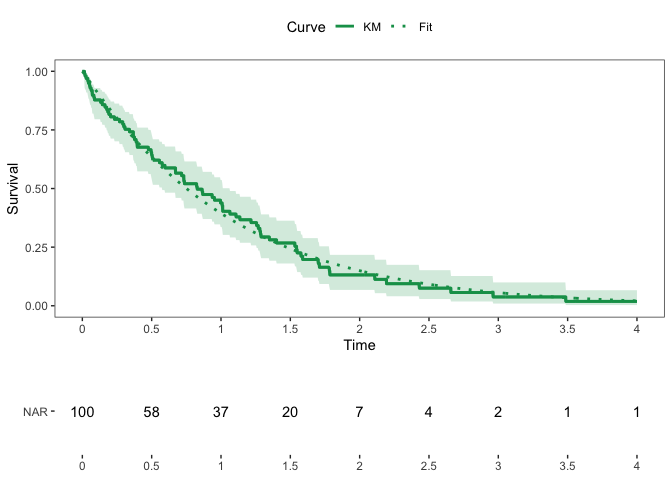
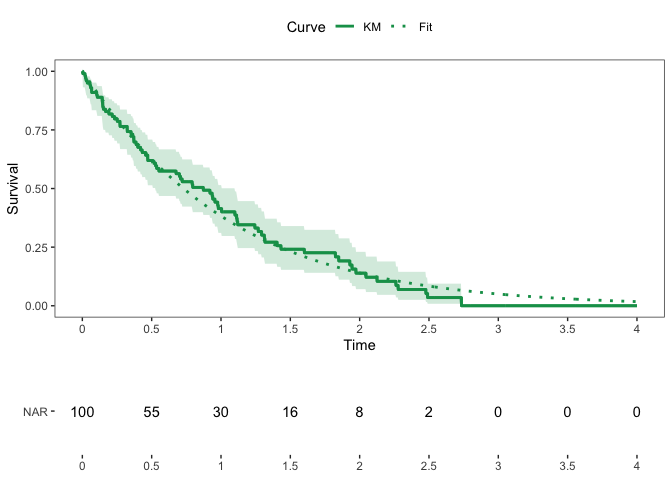
Add DOI.

diff --git a/README.md b/README.md
@@ -1,12 +1,14 @@
+README
+================
+Zachary McCaw
+2026-03-02
+
 # Utility Functions for Survival Analysis
 
 [![R-CMD-check](https://github.com/zrmacc/SurvUtils/actions/workflows/R-CMD-check.yaml/badge.svg)](https://github.com/zrmacc/SurvUtils/actions/workflows/R-CMD-check.yaml)
+[![DOI](https://zenodo.org/badge/DOI/10.5281/zenodo.13927061.svg)](https://doi.org/10.5281/zenodo.13927061)
 
-Zachary R. McCaw <br>
-Updated: 2026-02-22
-
-
-
+Zachary R. McCaw <br> Updated: 2026-02-22
 
 ``` r
 suppressPackageStartupMessages({
@@ -17,15 +19,15 @@ suppressPackageStartupMessages({
 
 # Installation
 
-
 ``` r
 devtools::install_github(repo = "zrmacc/SurvUtils")
 ```
 
 # Data Generation
 
-Generates survival data with exponential event times and censoring. Optionally, the subject-specific event rate may depend on a set of covariates and/or a gamma-frailty.
-
+Generates survival data with exponential event times and censoring.
+Optionally, the subject-specific event rate may depend on a set of
+covariates and/or a gamma-frailty.
 
 ``` r
 data <- SurvUtils::GenData(
@@ -37,15 +39,13 @@ data <- SurvUtils::GenData(
 head(data)
 ```
 
-```
-##   idx       time status
-## 1   1 0.05302913      1
-## 2   2 0.15642474      1
-## 3   3 0.91458726      1
-## 4   4 0.18219804      1
-## 5   5 2.34921502      1
-## 6   6 0.13777031      1
-```
+    ##   idx        time status
+    ## 1   1 0.980409068      1
+    ## 2   2 0.002987575      1
+    ## 3   3 1.109346579      1
+    ## 4   4 0.234960741      1
+    ## 5   5 1.351709113      0
+    ## 6   6 0.150846603      1
 
 # Estimation
 
@@ -53,64 +53,53 @@ head(data)
 
 ### Kaplan-Meier
 
-* Tabulates the cumulative hazard and survival functions, along with variance estimates and confidence intervals.
-
+- Tabulates the cumulative hazard and survival functions, along with
+  variance estimates and confidence intervals.
 
 ``` r
 km_tab <- SurvUtils::TabulateKM(data)
 head(km_tab)
 ```
 
-```
-## # A tibble: 6 × 13
-##     time censor events   nar    haz cum_haz cum_haz_var cum_haz_lower
-##    <dbl>  <dbl>  <dbl> <dbl>  <dbl>   <dbl>       <dbl>         <dbl>
-## 1 0           0      0   100 0       0         0              0      
-## 2 0.0157      0      1   100 0.01    0.01      0.0001         0.00141
-## 3 0.0272      0      1    99 0.0101  0.0201    0.000202       0.00503
-## 4 0.0309      1      0    98 0       0.0201    0.000202       0.00503
-## 5 0.0448      1      0    97 0       0.0201    0.000202       0.00503
-## 6 0.0530      0      1    96 0.0104  0.0305    0.000311       0.00984
-## # ℹ 5 more variables: cum_haz_upper <dbl>, surv <dbl>, surv_var <dbl>,
-## #   surv_lower <dbl>, surv_upper <dbl>
-```
+    ## # A tibble: 6 × 13
+    ##      time censor events   nar    haz cum_haz cum_haz_var cum_haz_lower
+    ##     <dbl>  <dbl>  <dbl> <dbl>  <dbl>   <dbl>       <dbl>         <dbl>
+    ## 1 0            0      0   100 0       0         0              0      
+    ## 2 0.00299      0      1   100 0.01    0.01      0.0001         0.00141
+    ## 3 0.0409       0      1    99 0.0101  0.0201    0.000202       0.00503
+    ## 4 0.0598       0      1    98 0.0102  0.0303    0.000306       0.00977
+    ## 5 0.0598       0      1    97 0.0103  0.0406    0.000412       0.0152 
+    ## 6 0.0601       0      1    96 0.0104  0.0510    0.000521       0.0212 
+    ## # ℹ 5 more variables: cum_haz_upper <dbl>, surv <dbl>, surv_var <dbl>,
+    ## #   surv_lower <dbl>, surv_upper <dbl>
 
 ### Event Rate, Percentile, Restricted Mean Survival
 
-* Calculate the event rate at a point in time.
-
+- Calculate the event rate at a point in time.
 
 ``` r
 # Rate.
 SurvUtils::OneSampleRates(data, tau = 1.0)
 ```
 
-```
-##   tau      rate         se     lower     upper
-## 1   1 0.7195301 0.04771469 0.6239354 0.8084374
-```
-
+    ##   tau      rate         se     lower     upper
+    ## 1   1 0.6509849 0.05069336 0.5521103 0.7483036
 
 ``` r
 # Percentile: median.
 SurvUtils::OneSamplePercentiles(data, p = 0.5)
 ```
 
-```
-##   prob      time     lower     upper
-## 1  0.5 0.6999805 0.4853516 0.8554904
-```
-
+    ##   prob      time     lower     upper
+    ## 1  0.5 0.6068861 0.3464357 0.8500518
 
 ``` r
 # RMST.
 SurvUtils::OneSampleRMST(data, tau = 1.0)
 ```
 
-```
-##   tau       auc         se     lower     upper
-## 1   1 0.6352103 0.03437084 0.5678447 0.7025759
-```
+    ##   tau       auc         se     lower     upper
+    ## 1   1 0.5848973 0.03908704 0.5082881 0.6615065
 
 ## Two Sample
 
@@ -141,19 +130,17 @@ data <- rbind(data0, data1)
 SurvUtils::CompareRates(data, tau = 1.0)
 ```
 
-```
-## Marginal Statistics:
-##   arm tau  rate     se
-## 1   0   1 0.429 0.0553
-## 2   1   1 0.545 0.0528
-## 
-## 
-## Contrasts:
-##   stat   est     se  lower upper     p
-## 1   rd 0.116 0.0764 -0.034 0.266 0.130
-## 2   rr 1.270 0.2040  0.926 1.740 0.138
-## 3   or 1.590 0.4940  0.867 2.930 0.133
-```
+    ## Marginal Statistics:
+    ##   arm tau  rate     se
+    ## 1   0   1 0.421 0.0517
+    ## 2   1   1 0.653 0.0524
+    ## 
+    ## 
+    ## Contrasts:
+    ##   stat   est     se  lower upper       p
+    ## 1   rd 0.232 0.0736 0.0878 0.376 0.00162
+    ## 2   rr 1.550 0.2280 1.1600 2.070 0.00277
+    ## 3   or 2.590 0.8120 1.4000 4.790 0.00243
 
 ### Compare RMSTs
 
@@ -161,21 +148,22 @@ SurvUtils::CompareRates(data, tau = 1.0)
 SurvUtils::CompareRMSTs(data, tau = 1.0)
 ```
 
-```
-## Marginal Statistics:
-##   tau   auc     se lower upper arm
-## 1   1 0.677 0.0379 0.603 0.751   0
-## 2   1 0.754 0.0342 0.687 0.821   1
-## 
-## 
-## Contrasts:
-##   stat    est     se   lower upper     p
-## 1   rd 0.0773 0.0510 -0.0227 0.177 0.130
-## 2   rr 1.1100 0.0802  0.9680 1.280 0.133
-```
+    ## Marginal Statistics:
+    ##   tau   auc     se lower upper arm
+    ## 1   1 0.657 0.0376 0.583 0.731   0
+    ## 2   1 0.826 0.0313 0.764 0.887   1
+    ## 
+    ## 
+    ## Contrasts:
+    ##   stat   est     se  lower upper        p
+    ## 1   rd 0.169 0.0489 0.0728 0.265 0.000566
+    ## 2   rr 1.260 0.0862 1.1000 1.440 0.000870
 
 ### Compare Cox Models
-Compare the predictive performance of Cox models based on different sets of covariates with respect to their c-statistics on held-out data via k-fold cross validation.
+
+Compare the predictive performance of Cox models based on different sets
+of covariates with respect to their c-statistics on held-out data via
+k-fold cross validation.
 
 ``` r
 # Simulate data.
@@ -199,22 +187,21 @@ eval <- CompareCoxCstat(
 head(round(eval, digits = 3))
 ```
 
-```
-##   fold cstat1 cstat2  diff ratio
-## 1    1  0.821  0.772 0.049 1.064
-## 2    2  0.787  0.672 0.115 1.171
-## 3    3  0.735  0.628 0.107 1.171
-## 4    4  0.799  0.688 0.112 1.162
-## 5    5  0.786  0.735 0.051 1.070
-## 6    6  0.803  0.710 0.093 1.130
-```
+    ##   fold cstat1 cstat2  diff ratio
+    ## 1    1  0.739  0.652 0.087 1.134
+    ## 2    2  0.786  0.696 0.090 1.130
+    ## 3    3  0.791  0.692 0.100 1.144
+    ## 4    4  0.780  0.682 0.098 1.144
+    ## 5    5  0.801  0.626 0.175 1.280
+    ## 6    6  0.807  0.730 0.077 1.105
 
 # Inference
 
-For a tutorial on influence functions and the perturbation bootstrap, see [this vignette](https://github.com/zrmacc/SurvUtils/blob/master/vignettes/perturbation_bootstrap.pdf).
+For a tutorial on influence functions and the perturbation bootstrap,
+see [this
+vignette](https://github.com/zrmacc/SurvUtils/blob/master/vignettes/perturbation_bootstrap.pdf).
 
 # Plotting
-
 
 ``` r
 # Generate data.
@@ -228,7 +215,6 @@ data <- rbind(arm1, arm0)
 ## One Sample
 
 ### Standard Kaplan-Meier
-
 
 ``` r
 x_breaks <- seq(from = 0.0, to = 4.0, by = 0.50)
@@ -245,10 +231,9 @@ cowplot::plot_grid(
 )
 ```
 
-<img src="README_files/figure-html/unnamed-chunk-13-1.png" alt="" style="display: block; margin: auto;" />
+<img src="README_files/figure-gfm/unnamed-chunk-13-1.png" alt="" style="display: block; margin: auto;" />
 
 ### AUC
-
 
 ``` r
 x_breaks <- seq(from = 0.0, to = 4.0, by = 0.50)
@@ -264,10 +249,9 @@ cowplot::plot_grid(
 )
 ```
 
-<img src="README_files/figure-html/unnamed-chunk-14-1.png" alt="" style="display: block; margin: auto;" />
+<img src="README_files/figure-gfm/unnamed-chunk-14-1.png" alt="" style="display: block; margin: auto;" />
 
 ## Two Sample
-
 
 ``` r
 x_breaks <- seq(from = 0.0, to = 4.0, by = 0.50)
@@ -283,4 +267,4 @@ cowplot::plot_grid(
 )
 ```
 
-<img src="README_files/figure-html/unnamed-chunk-15-1.png" alt="" style="display: block; margin: auto;" />
+<img src="README_files/figure-gfm/unnamed-chunk-15-1.png" alt="" style="display: block; margin: auto;" />
